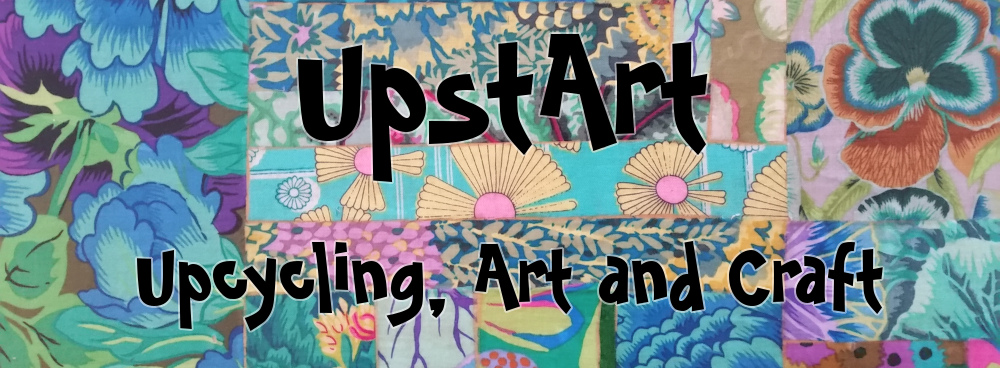
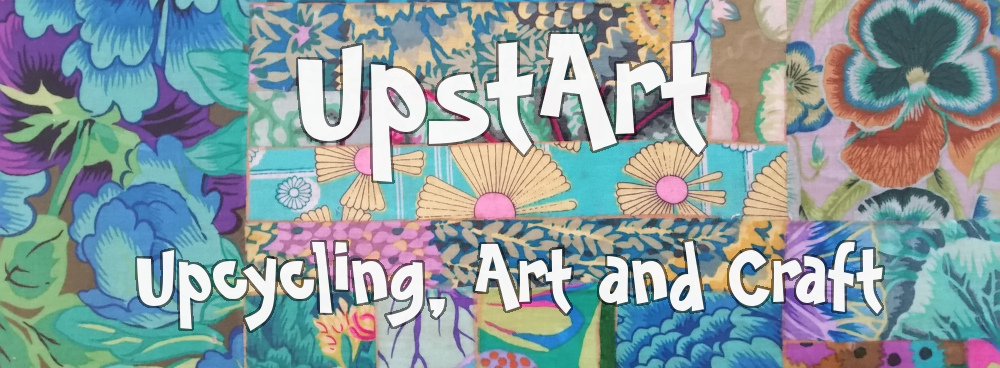
A lot of style tidying, added Oxygen font, removed sidebars.

Changed region(s): [[0.279, 0.0897, 0.713, 0.5082], [0.465, 0.6576, 0.899, 0.8668], [0.124, 0.6277, 0.465, 0.8967]]

diff --git a/css/main.css b/css/main.css
@@ -1,11 +1,20 @@
 
 body {
-  font-family: 'Open Sans', sans-serif;
-  font-size: 14px;
+  font-family: 'Oxygen', sans-serif;
+  font-size: 21px;
   color: #666666;
+  line-height: 1.4em;
+}
+
+h1, h2, h3, h4 {
+  font-family: 'Open Sans', sans-serif;
+  font-variant: small-caps;
+  color: #058fa1;
 }
 
 a {
+  font-family: 'Open Sans', sans-serif;
+  font-size: 24px;
   text-decoration: none;
   color: #257f91;
 }
@@ -40,44 +49,8 @@ div.outer {
 }
 
 div.content-wrapper {
-  display: flex;
-  flex-direction: row;
-  line-height: 20px;
 }
 
-div.side-bar {
-  flex: 3 0 0;
-  padding: 0 18px 0 0;
-}
-
-div.side-bar ul, div.register-button {
-  padding-left: 30px;
-}
-
-div.side-bar ul ul {
-  padding-left: 20px;
-}
-
-div.content {
-  flex: 12 0 0;
-}
-
-div.blog-bar {
-  flex: 4 0 0;
-  padding: 0 0 0 18px;
-}
-
-div.blog-bar ul {
-  padding: 0;
-}
-
-div.blog-bar li {
-  margin: 0;
-  padding: 6px 0;
-  list-style: none;
-  clear: both;
-  border-top: solid 1px #ddd;
-}
 
 div.header {
   text-align: center;
@@ -85,10 +58,6 @@ div.header {
   position: relative;
 }
 
-h1, h2, h3, h4 {
-  font-variant: small-caps;
-  color: #058fa1;
-}
 
 h1 {
   font-weight: normal;
@@ -128,58 +97,4 @@ div.footer {
   margin-top: 10px;
   text-align: center;
   font-size: small;
-}
-table {
-  color:#666;
-  font-size:12px;
-  text-shadow: 1px 1px 0px #fff;
-  background:#eaebec;
-  margin:20px;
-  border:#ccc 1px solid;
-}
-table th {
-  padding:21px 25px 22px 25px;
-  border-top:1px solid #fafafa;
-  border-bottom:1px solid #e0e0e0;
-
-  background: #ededed;
-}
-table th:first-child {
-  text-align: left;
-  padding-left:20px;
-}
-table tr:first-child th:first-child {
-  border-top-left-radius:3px;
-}
-table tr:first-child th:last-child {
-  border-top-right-radius:3px;
-}
-table tr {
-  text-align: center;
-  padding-left:20px;
-}
-table td:first-child {
-  text-align: left;
-  padding-left:20px;
-  border-left: 0;
-}
-table td {
-  padding:8px;
-  border-top: 1px solid #ffffff;
-  border-bottom:1px solid #e0e0e0;
-  border-left: 1px solid #e0e0e0;
-
-  background: #fafafa;
-}
-table tr.even td {
-  background: #f6f6f6;
-}
-table tr:last-child td {
-  border-bottom:0;
-}
-table tr:last-child td:first-child {
-  border-bottom-left-radius:3px;
-}
-table tr:last-child td:last-child {
-  border-bottom-right-radius:3px;
 }

diff --git a/_layouts/default.html b/_layouts/default.html
@@ -4,7 +4,7 @@
     <link href="css/main.css" rel="stylesheet">
     <link href="images/favicon.ico" rel="shortcut icon">
     <link href='http://fonts.googleapis.com/css?family=Open+Sans:400,600' rel='stylesheet' type='text/css'>
-    <link href="http://yui.yahooapis.com/pure/0.5.0/pure-min.css" rel="stylesheet">
+    <link href='http://fonts.googleapis.com/css?family=Oxygen' rel='stylesheet' type='text/css'>
     <title>UpstArt</title>
   <head>
 
@@ -23,30 +23,9 @@
     </div>
     
     <div class="content-wrapper">
-      <div class="side-bar">
-        <h1>Links</h1>
-        {% capture sidebar %}{% include sidelinks.md %}{% endcapture %}
-        {{ sidebar | markdownify }}
-      </div>
-
-      <div class="content">
         <h1>{{page.title}}</h1>
 
         {{content}}
-      </div>
-
-      <div class="blog-bar">
-        <h1>News</h1>
-
-        <ul>
-          {% for post in site.posts %}
-            <li>
-              <a href="{{ post.url }}">{{ post.title }}</a>
-              {{ post.excerpt }}
-            </li>
-          {% endfor %}
-        </ul>
-      </div>
     </div>
 
     <hr>

diff --git a/index.md b/index.md
@@ -1,6 +1,6 @@
 ---
-title: Upstart
+title: UpstArt
 layout: default
 ---
 
-*Under construction...*
+Lorem ipsum dolor sit amet, consectetur adipiscing elit, sed do eiusmod tempor incididunt ut labore et dolore magna aliqua. Ut enim ad minim veniam, quis nostrud exercitation ullamco laboris nisi ut aliquip ex ea commodo consequat. Duis aute irure dolor in reprehenderit in voluptate velit esse cillum dolore eu fugiat nulla pariatur. Excepteur sint occaecat cupidatat non proident, sunt in culpa qui officia deserunt mollit anim id est laborum
